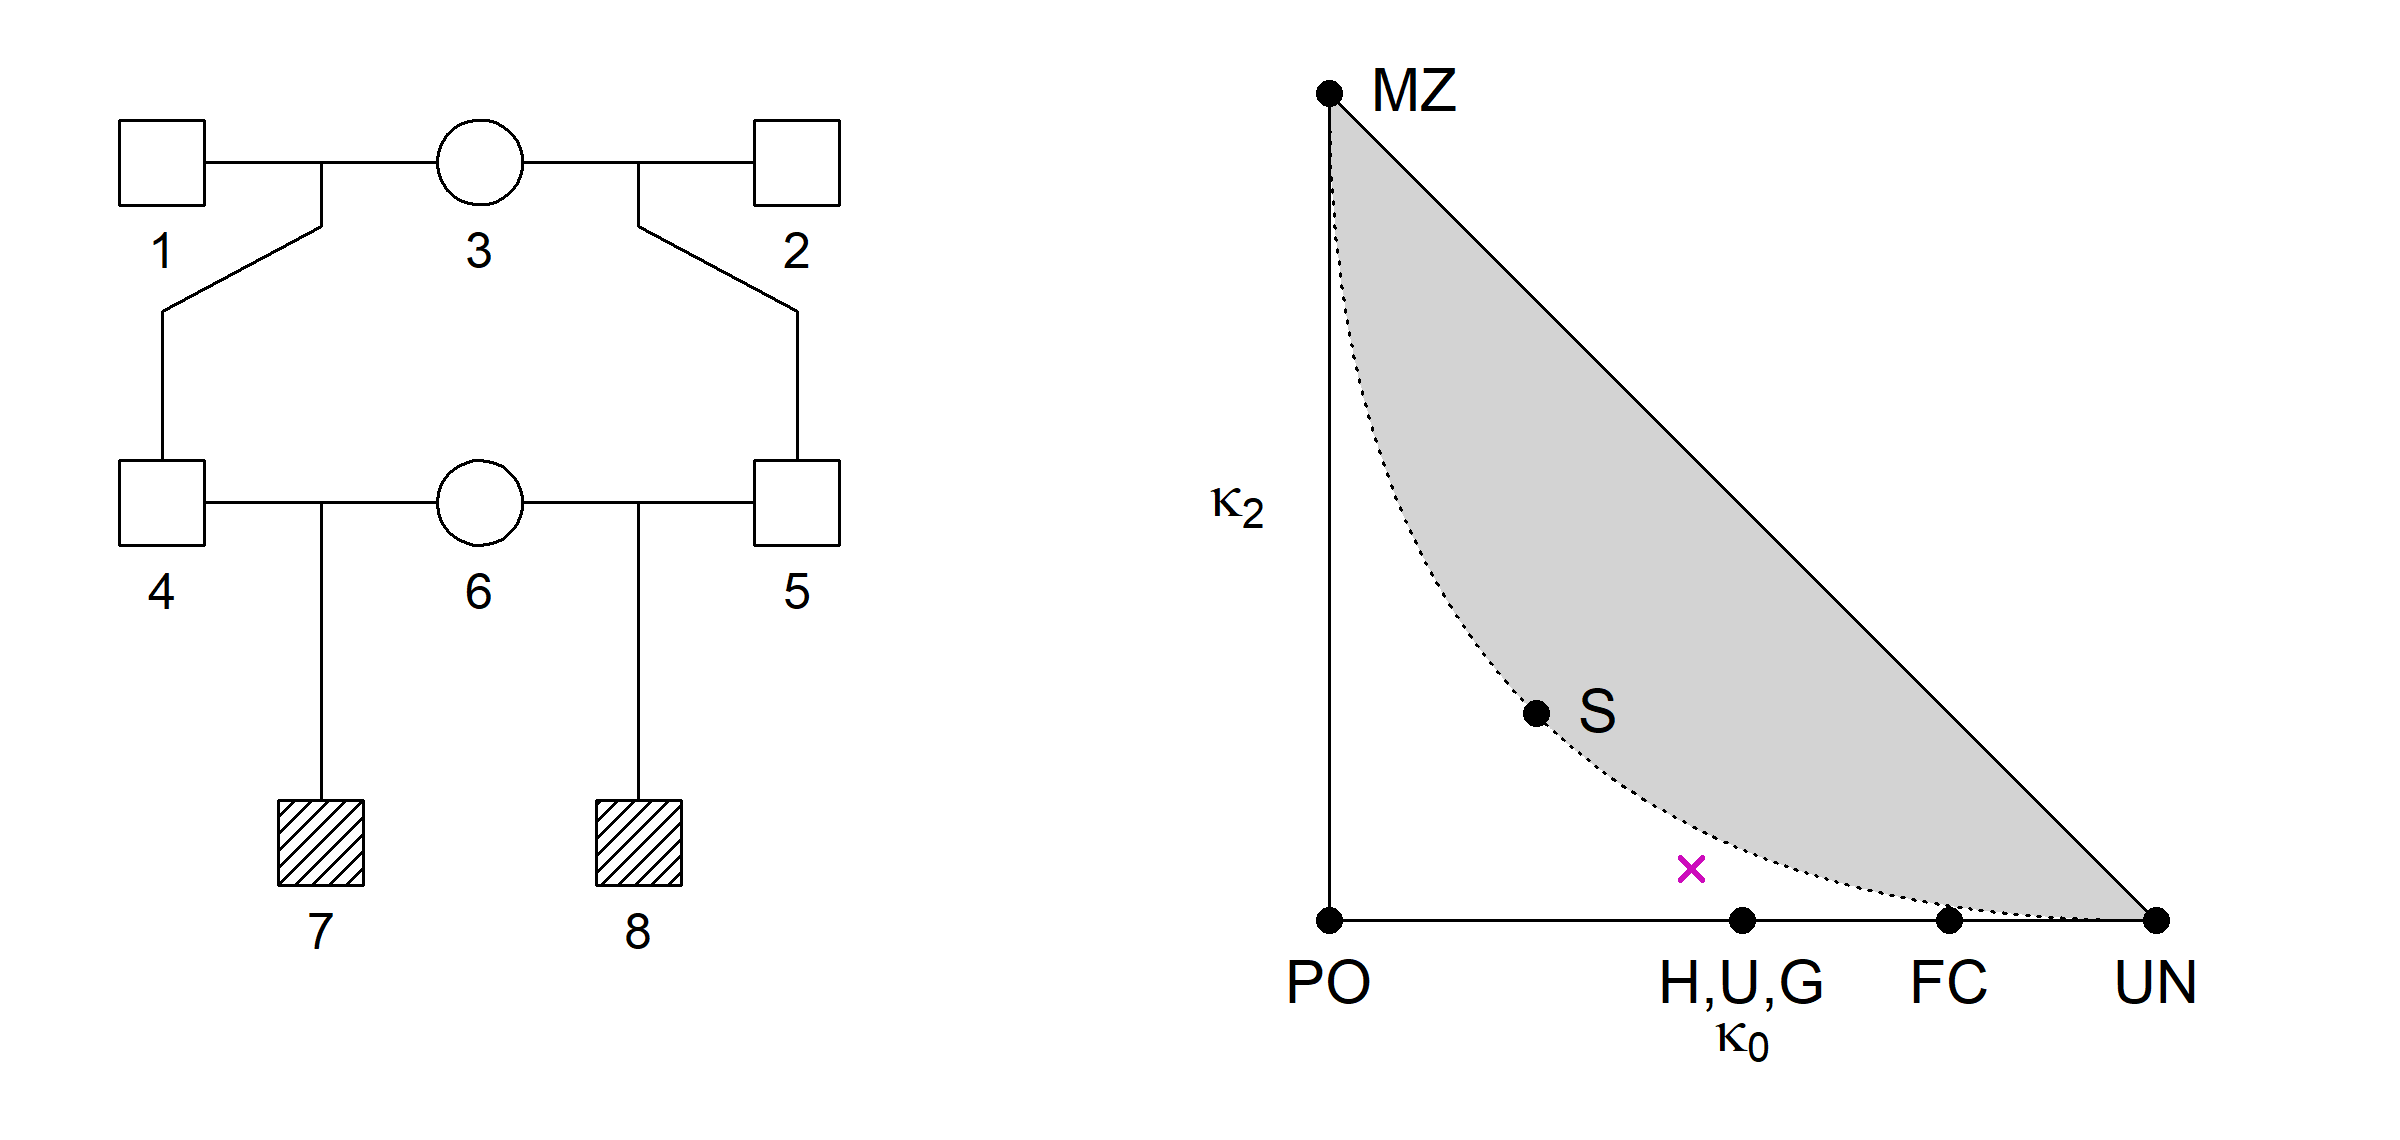
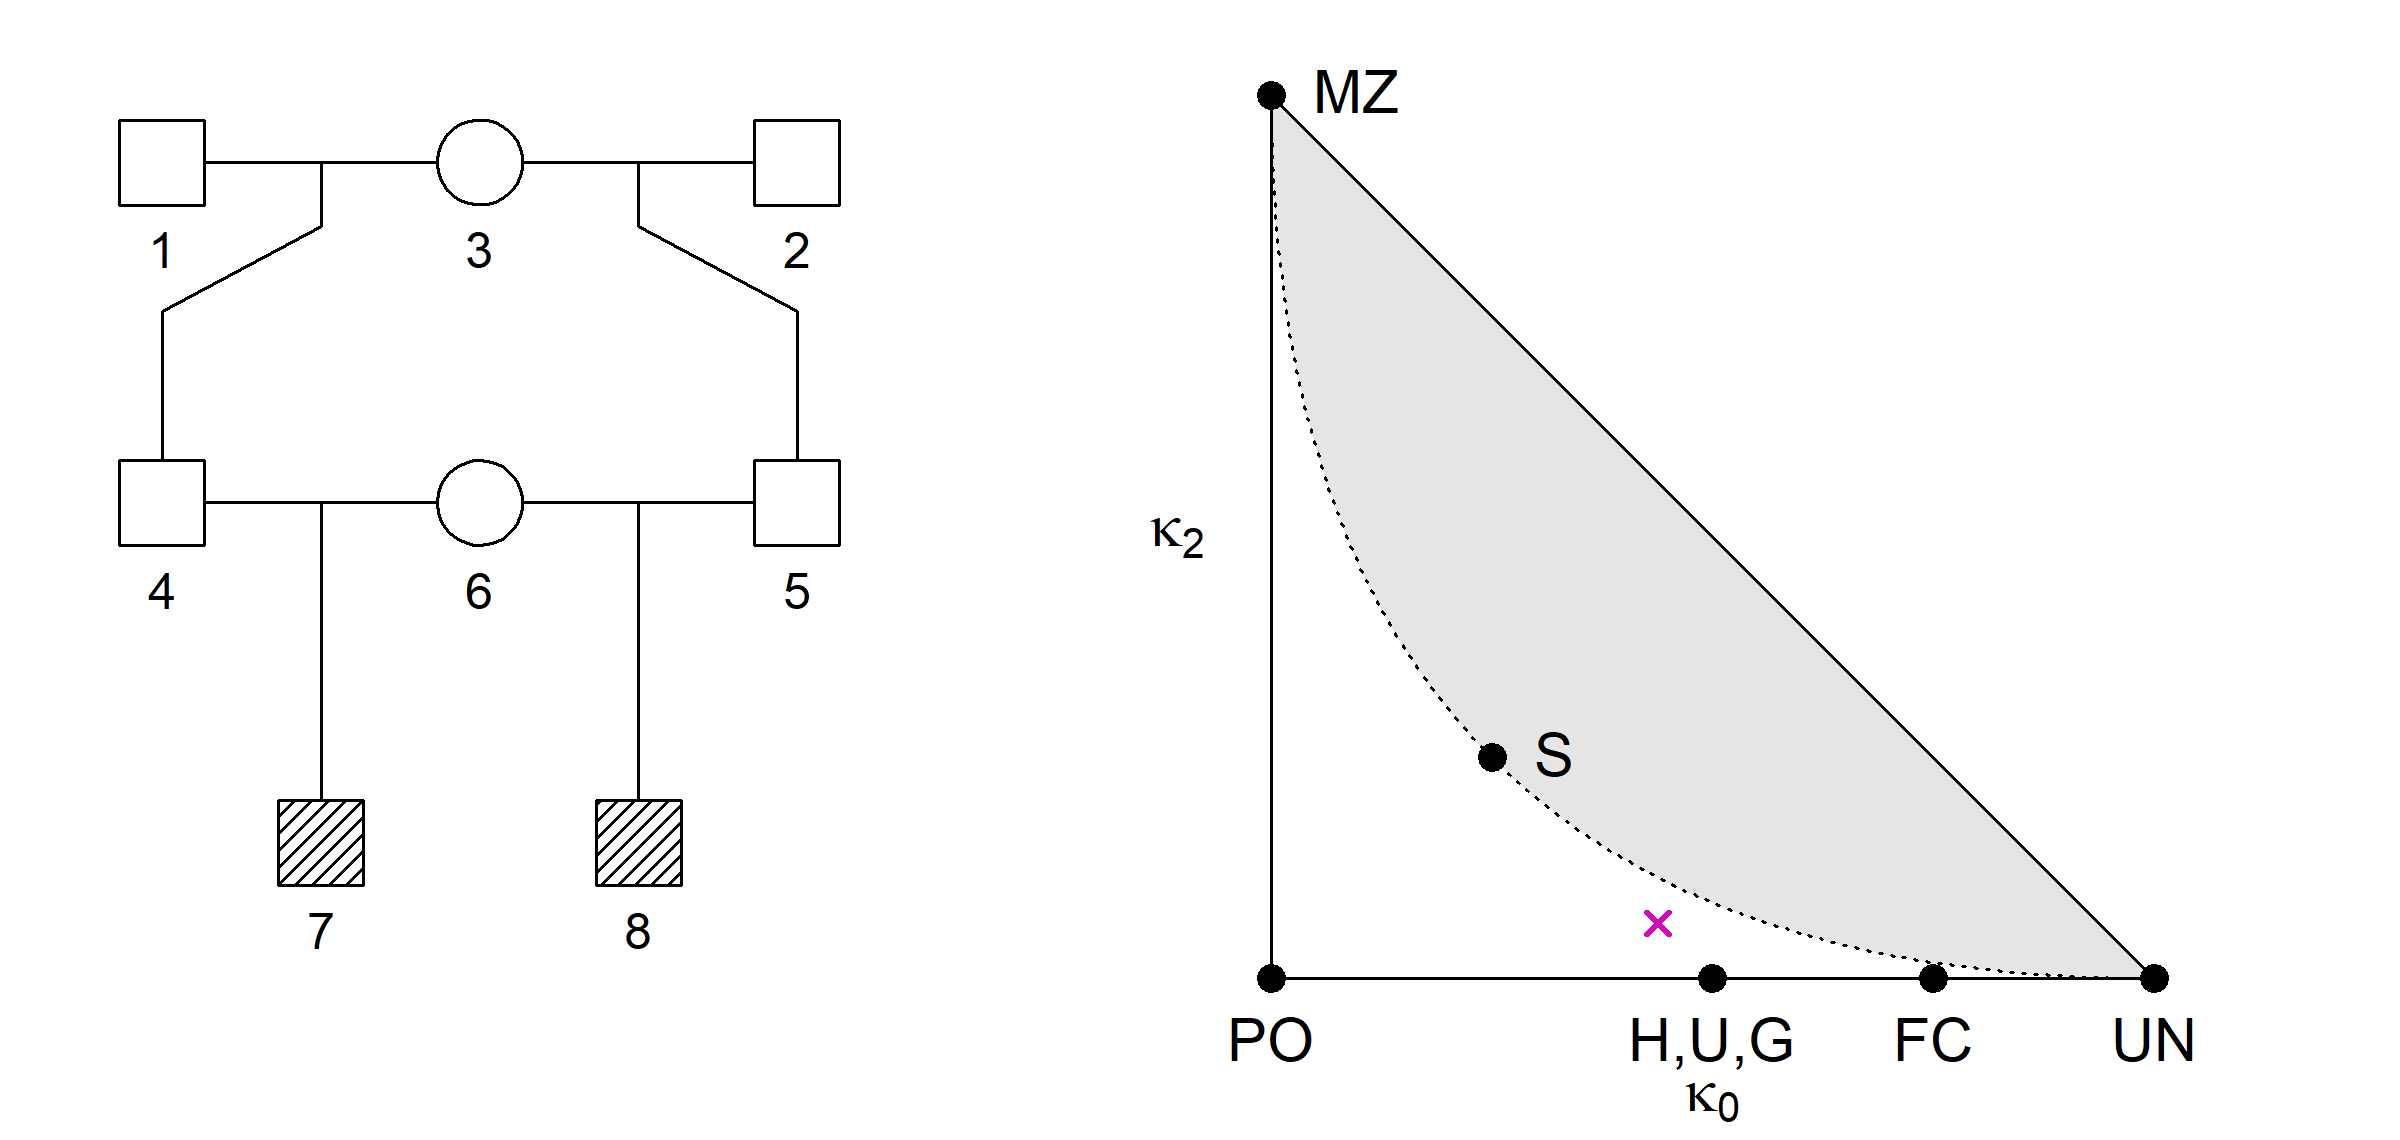
Update Description and README

Changed region(s): [[0.5, 0.0614, 0.9375, 0.9825], [0.5, 0.7982, 0.5938, 0.9211], [0.4688, 0.4605, 0.5, 0.4912]]

diff --git a/README.md b/README.md
@@ -157,10 +157,15 @@ plot(y, margin = 4)
 k = kappaIBD(y)
 
 # IBD triangle
-showInTriangle(k, labels = T, cexLab = 1.3, pos = c(3,2,3,4,4,3))
+showInTriangle(k, labels = T, pos = c(3,2,3,4,4,3))
 ```
 
 <img src="man/figures/README-triangle-S-1.png" width="90%" style="display: block; margin: auto;" />
+
+(If you have `ggplot2` and `ggrepel` installed, try
+`showInTriangle(k, plotType = "gg")` for automatic separation of the
+labels. There is also an interactive version, available with
+`showInTriangle(k, plotType = "plotly")`.)
 
 As shown by [Thompson
 (1976)](https://doi.org/10.1111/j.1469-1809.1976.tb00181.x), all
